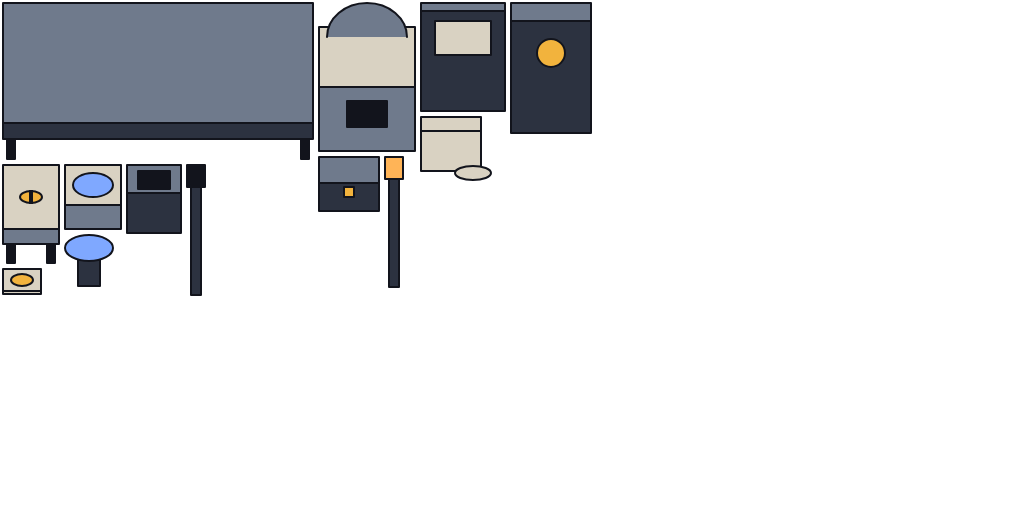
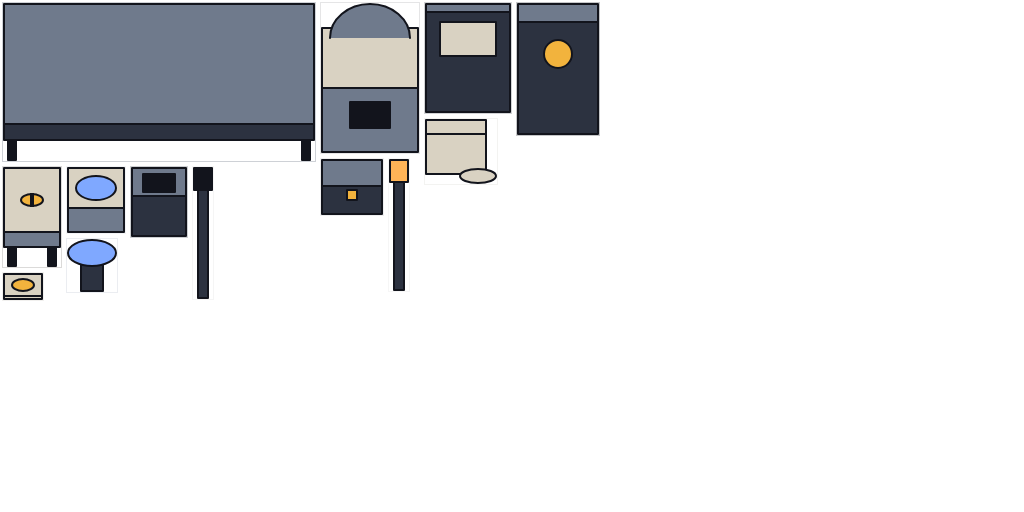
Pack without extrude only frames that are finished, so unfinished art packs byte for byte as before
Claude-Session: https://claude.ai/code/session_01EfS682sdrtndDsdJpHu7sr

Changed region(s): [[0.0, 0.0, 0.5938, 0.5625], [0.0, 0.3125, 0.2188, 0.5938]]

diff --git a/tools/sprites/pack.ts b/tools/sprites/pack.ts
@@ -3,7 +3,7 @@ import { readdirSync, readFileSync, mkdirSync, writeFileSync } from 'node:fs';
 import { join, resolve } from 'node:path';
 import { fileURLToPath } from 'node:url';
 import { packAsync } from 'free-tex-packer-core';
-import { alphaBleed } from './bleed.ts';
+import { alphaBleed, decodePng, type Rgba } from './bleed.ts';
 import { applyPivots, buildAnims, type FeetManifest } from './gen-anims.ts';
 import { CHAR_PAGE, OVL_PAGE, PASSES, frameKey, parseFrameFileName, textureKey, type Pass } from './keys.ts';
 import { finishEnabled } from './palette.ts';
@@ -80,10 +80,12 @@ export async function packFrames(
     .sort((a, b) => (a.name < b.name ? -1 : a.name > b.name ? 1 : 0))
     .map((i) => ({ path: `${i.name}.png`, contents: i.png }));
   // The packer's extrude resizes edge strips bilinearly, which adds partial alpha and off-palette colours.
-  // With the pixel finish on, frames are drawn with nearest filtering and the padding alone keeps them apart.
+  // Finished frames (the pixel finish on: alpha 0 or 255, drawn with nearest filtering) pack without it;
+  // the padding alone keeps them apart. Unfinished art keeps the extrude, byte for byte as before.
+  const finished = finishEnabled('main') && inputs.every((i) => !hasPartialAlpha(decodePng(i.png)));
   const out = await packAsync(files, {
     ...PACK_OPTIONS,
-    extrude: finishEnabled('main') ? 0 : PACK_OPTIONS.extrude,
+    extrude: finished ? 0 : PACK_OPTIONS.extrude,
     width: page.w,
     height: page.h,
     textureName,
@@ -115,6 +117,11 @@ export async function packFrames(
 
 export function atlasJson(atlas: MultiAtlas): string {
   return `${JSON.stringify(atlas, null, 1)}\n`;
+}
+
+function hasPartialAlpha(img: Rgba): boolean {
+  for (let i = 3; i < img.data.length; i += 4) if (img.data[i] !== 0 && img.data[i] !== 255) return true;
+  return false;
 }
 
 /** Page sizes for a body's two textures; a look's caps are one 1024² body page and one 1024 x 512 overlay page. */
